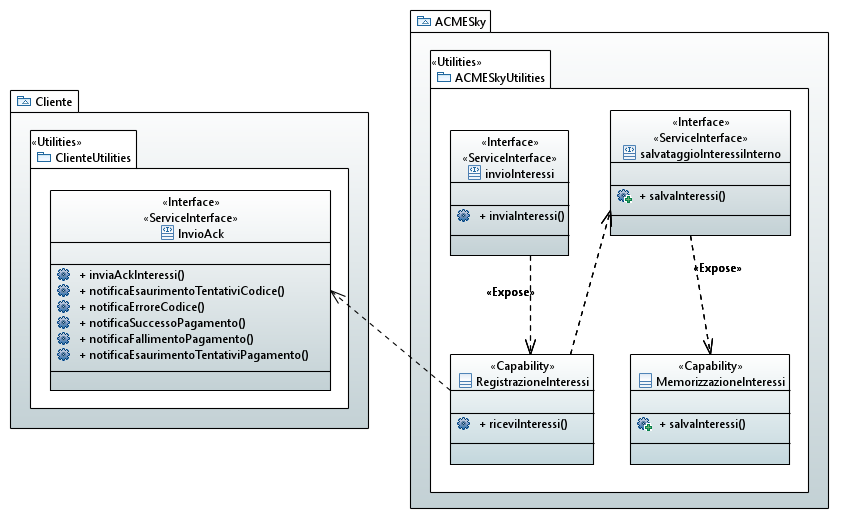
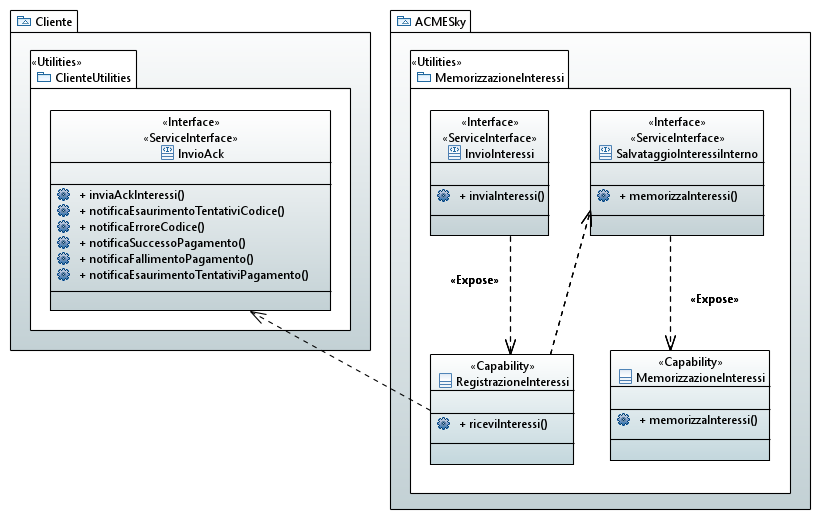
Modified 5 files

diff --git a/docs/5-modello-UML.md b/docs/5-modello-UML.md
@@ -23,11 +23,25 @@ Per una maggiore chiarezza, articoliamo anche la trattazione sul modello UML nel
 ![Modello UML con profilo TinySOA](https://github.com/MickPerl/soseng-project-documentation/blob/master/assets/images/UML_registra_interessi.png?raw=true
  "Modello UML relativo alla registrazione degli interessi degli utenti")
 
+In questa parte, le capability essenziali sono quelle di ACMESky:
+- `MemorizzazioneInteressi` rende persistenti gli interessi registrati  ed è esposta dall'interfaccia **salvataggioInteressiInterno**, la quale presenta l'operazione *inviaInteressi* che viene invocata internamente da ACMESky per rendere persistenti gli interessi;
+- `RegistrazioneInteressi` realizza la registrazione degli interessi dell'utente ed è esposta dall'interfaccia **invioInteressi**, la quale presenta l'operazione *inviaInteressi* che viene invocata dall'utente per specificare i propri interessi;
+  - questa capability necessita delle interfacce **salvataggioInteressiInterno** di cui sopra e **invioAck** del Cliente, in quanto, per finalizzare la registrazione degli interessi, ne deve notificare all'utente l'esito della ricezione e deve renderli persistenti.
 
 ## Richiesta e inoltro delle offerte
 ![Modello UML con profilo TinySOA](https://github.com/MickPerl/soseng-project-documentation/blob/master/assets/images/UML_richiesta_inoltro.png?raw=true
  "Modello UML relativo alla richiesta e all'inoltro delle offerte")
+Questa parte attiene alle seguenti attività:
+- la richiesta delle offerte attive alle compagnie aeree da parte di ACMESky;
+- la ricerca di corrispondenze tra le offerte e gli interessi degli utenti;
+- l'invio delle offerte che incontrano gli interessi di qualche utente a Prontogram da parte di ACMESky;
+- l'inoltro delle offerte agli utenti interessati da parte di Prontogram.
 
+Come già esplicitato nella sezione delle coreografie, per ogni offerta, ACMESky invia a Prontogram una *descrizione*, il/i *cliente/i cui è indirizzata* e tanti *codici* quanti sono i clienti destinatari, ognuno dei quali individua univocamente l'offerta e il cliente.
+
+Le capability coinvolte sono:
+- `GestioneCorrispondenzaOfferteInteressi` cerca match tra le offerte rivevute dalle compagnie aeree e : in dettaglio, le operazioni necessarie a realizzarla sono esposte da due interfacce diverse, **d** accessibile dall'esterno e **d**
+  - dipende dalle interfacce **InoltroCodice** di Prontogram e **RichiestaOfferte** della compagnia aerea, in quanto, per finalizzarsi, deve inoltrare 
 
 ## Ricezione e inoltro delle offerte LM
 Uguale a prima
@@ -35,6 +49,7 @@ Uguale a prima
 L'operazione 
 Un'offerta last minute si distingue da una ordinaria per i seguenti aspetti:
 - l'offerta  
+
 
 
 ## Acquisto offerta

diff --git a/docs/3-coreografia.md b/docs/3-coreografia.md
@@ -123,7 +123,7 @@ inoltro_offerte_LM: prontogram --> cliente_1z |
 inoltro_offerte_LM: prontogram --> cliente_nz) )
 ```
 
-Nell'ambito della comunicazione `last_minute`, una certa compagnia aerea invia ad ACMESky una sua offerta last-minute. Quindi, ACMESky verifica nuovamente la presenza di una corrispondenza tra il nuovo insieme di offerte memorizzate e le esigenze specificate dai suoi clienti fino a quel momento; a seconda che la verifica abbia esito positivo o meno, si eseguono le stesse comunicazioni di invio e inoltro delle offerte viste in [Richiesta e inoltro offerte](3-coreografia.md#richiesta-e-inoltro-offerte).
+Nell'ambito della comunicazione `last_minute`, una certa compagnia aerea invia ad ACMESky una sua offerta last-minute. Quindi, ACMESky verifica nuovamente la presenza di una corrispondenza tra il nuovo insieme di offerte memorizzate e le esigenze specificate dai suoi clienti fino a quel momento; a seconda che la verifica abbia esito positivo o meno, si eseguono le stesse comunicazioni di invio e inoltro delle offerte viste nella sezione precedente.
 
 Sebbene trattasi delle stesse comunicazioni, abbiamo deciso di chiamarle diversamente (`invio_offerte_LM` e `inoltro_offerte_LM`), al fine di evitare problemi di concorrenza: dato che la 2° e 4° sotto-coreografia sono in esecuzione parallela, nello stesso istante potrebbero essere eseguite le stesse comunicazioni tra gli stessi partecipanti, mentre cambiandone il nome non si pone il problema.
 
